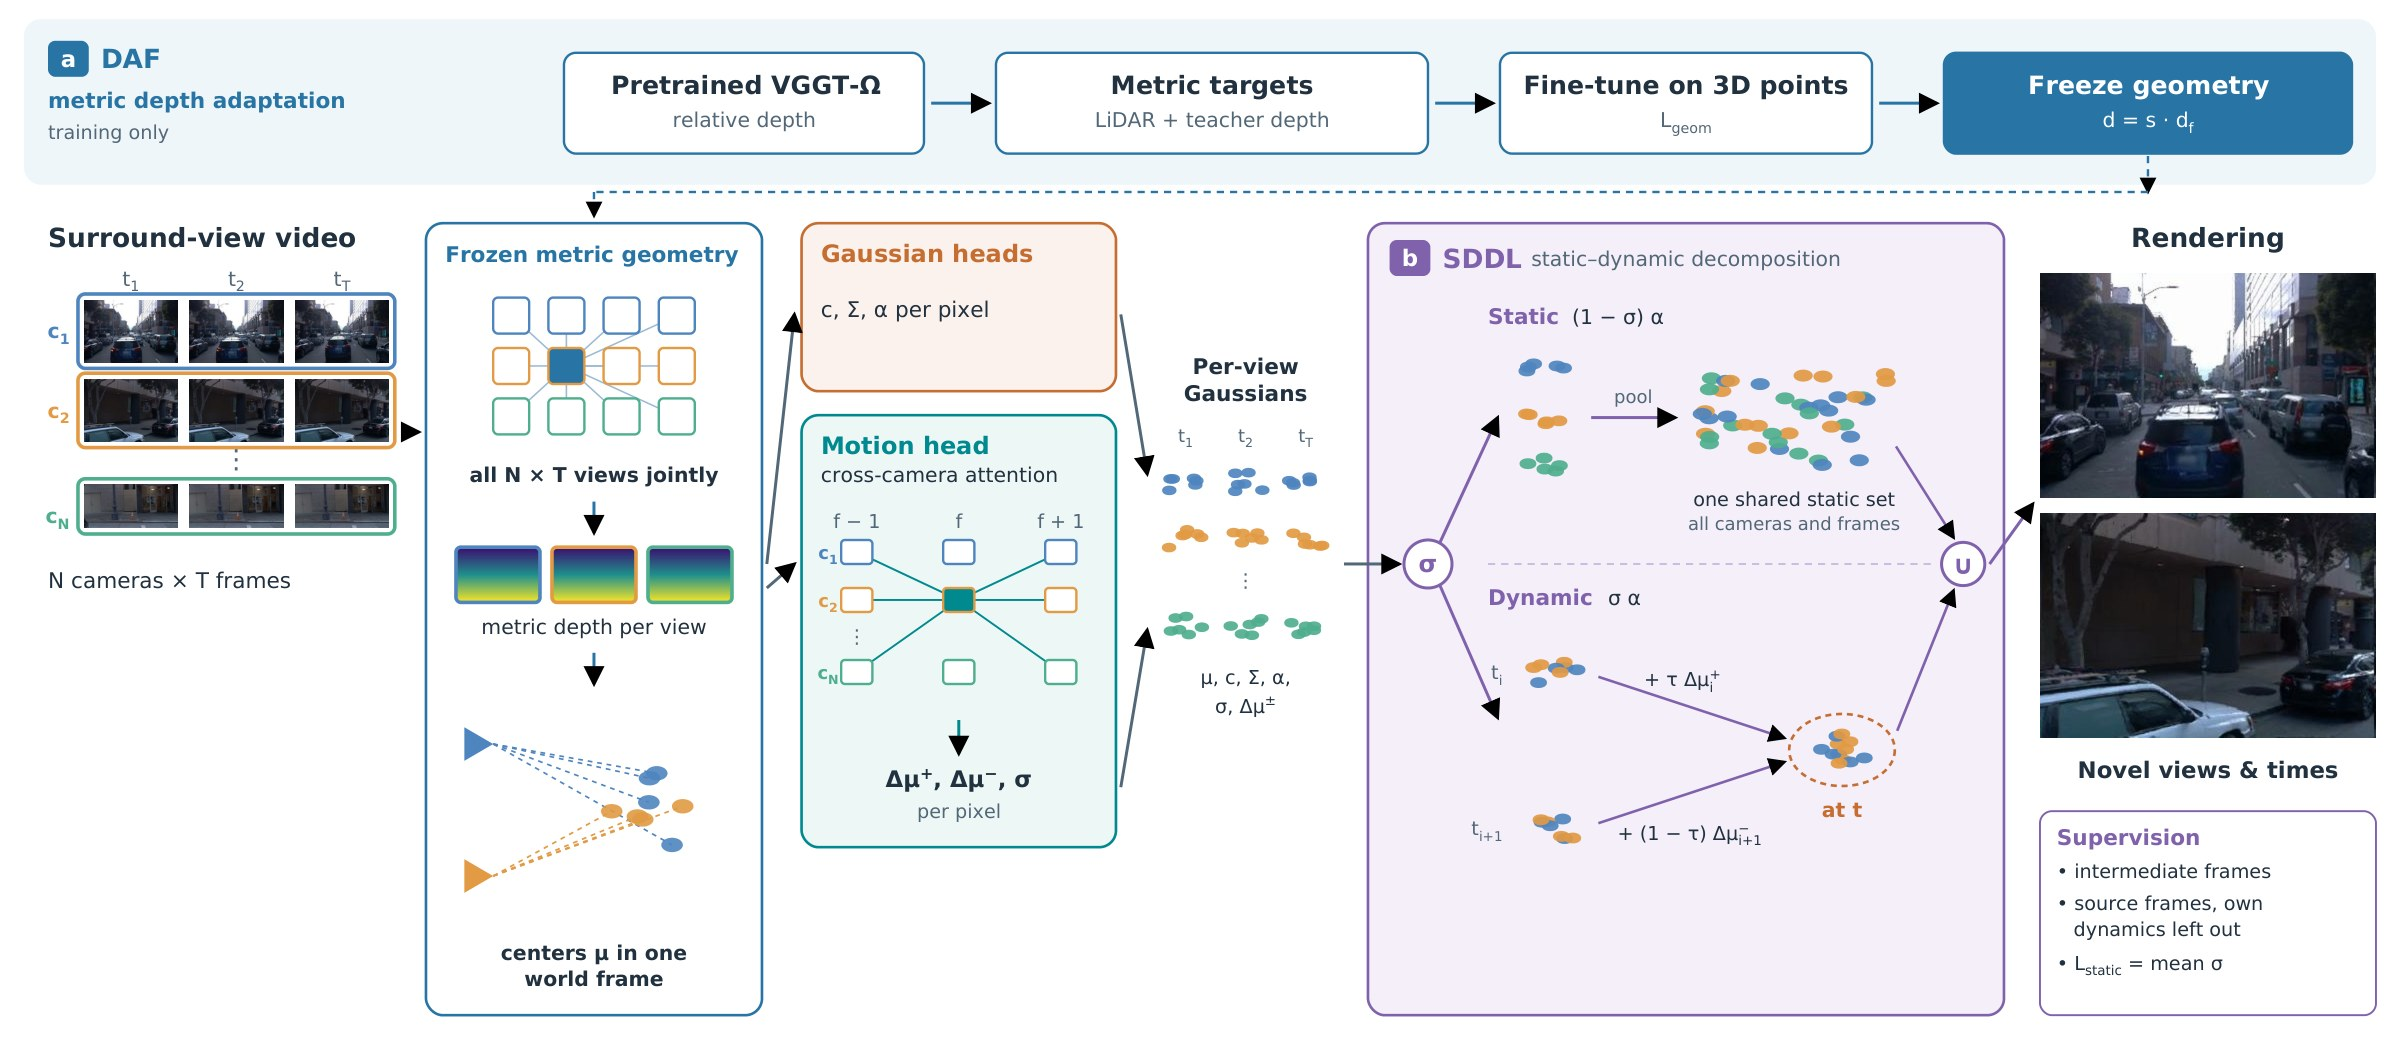
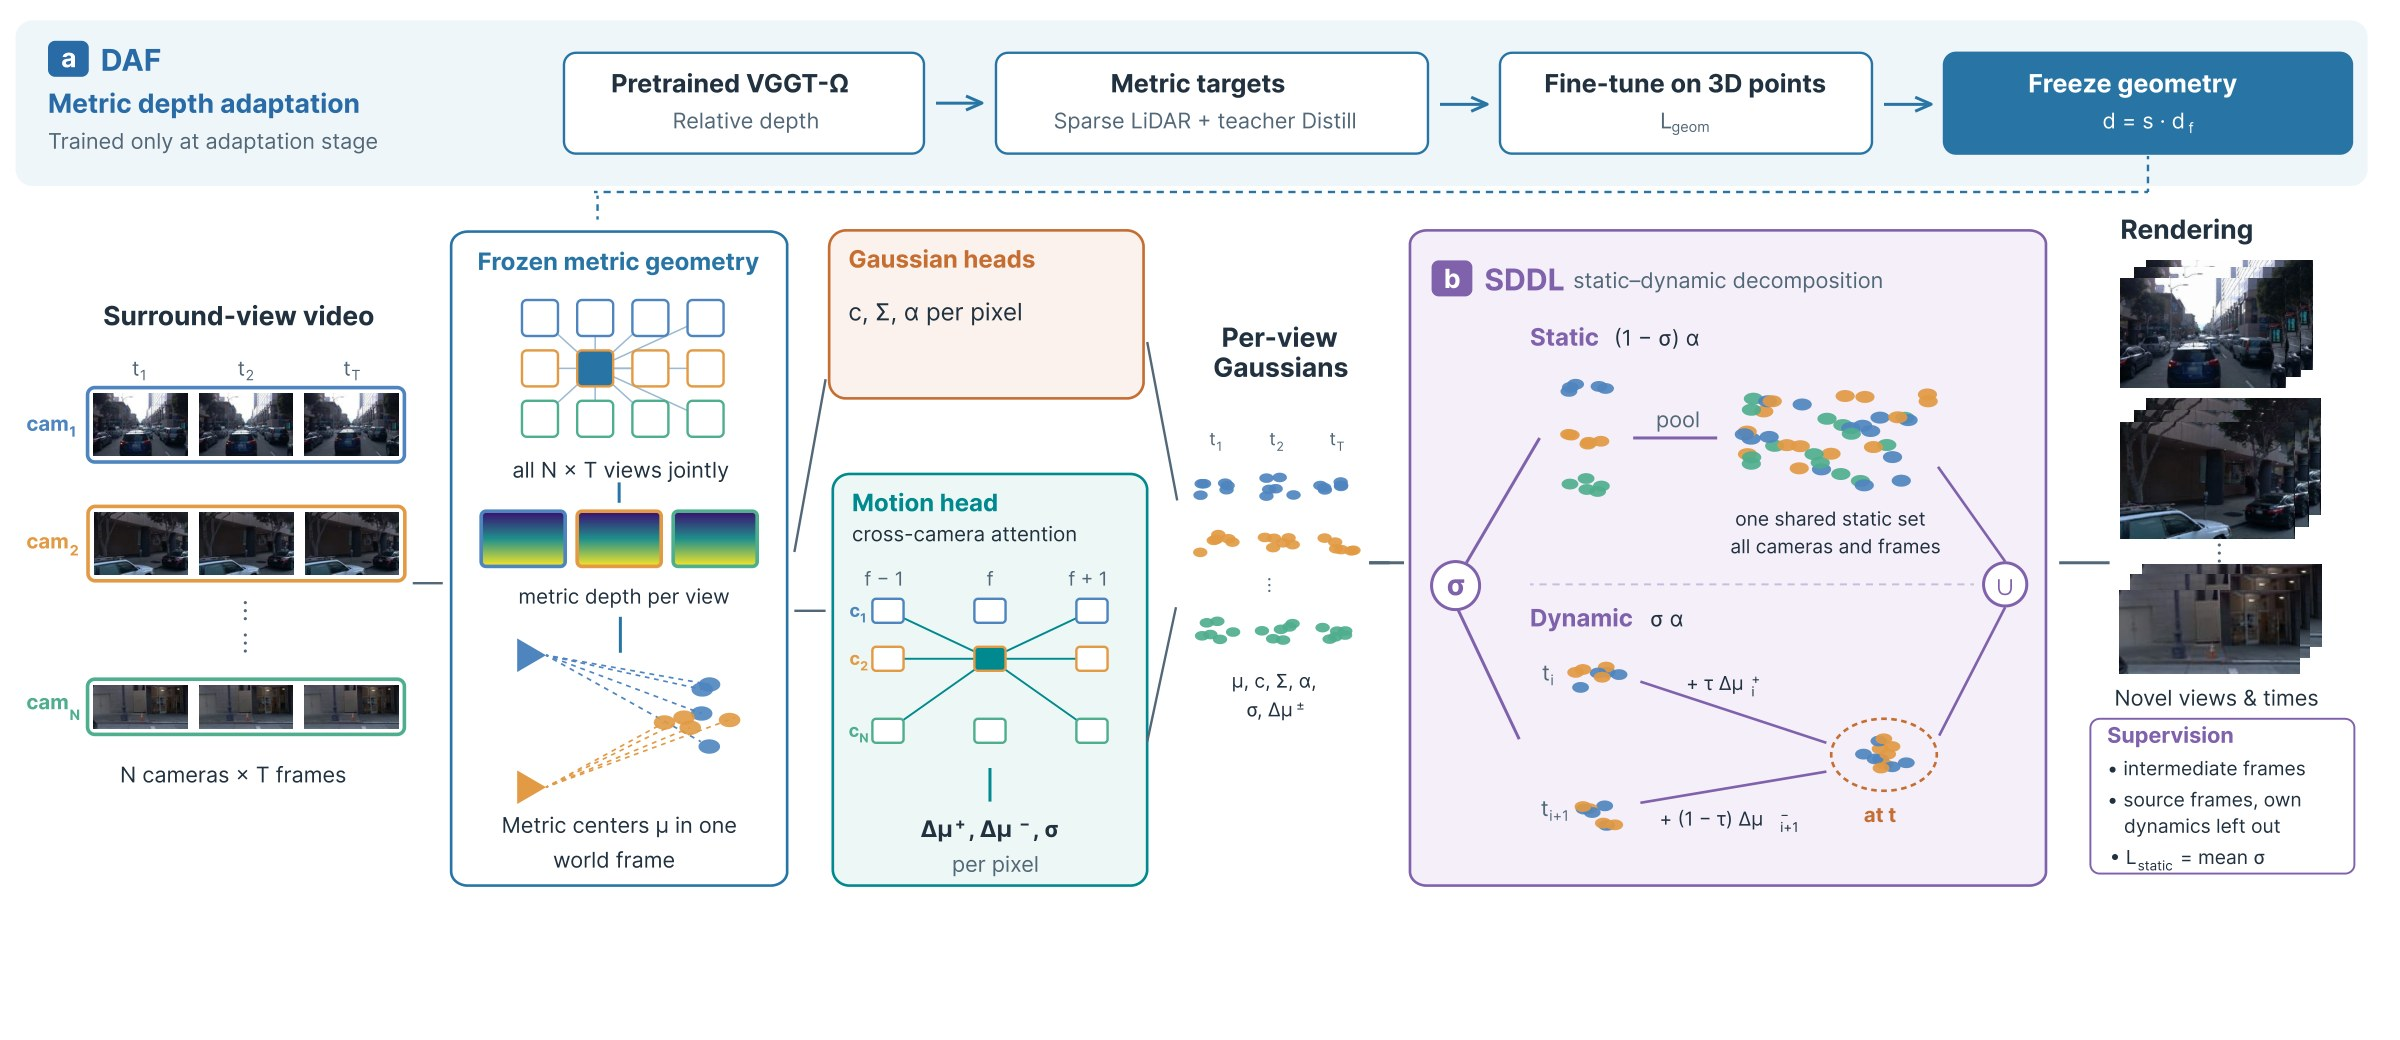
Sync with the paper: new framework figure, current abstract, affine-aligned header

diff --git a/docs/index.html b/docs/index.html
@@ -71,8 +71,8 @@
 
   <section class="wrap" id="abstract">
     <h2>Abstract</h2>
-    <p>Feed-forward scene reconstruction is a core component of autonomous driving, enabling scalable simulation, world modeling, and closed-loop reinforcement learning. We present X-Splatter, a surround-view, feed-forward 4D Gaussian Splatting (4DGS) framework that processes all surround cameras jointly on a VGGT-&Omega; backbone, with cross-camera attention throughout the network. It introduces two key components: Depth Anchoring Fine-tuning (DAF), which shifts geometry from relative to metric space, and Static&ndash;Dynamic Decomposition Learning (SDDL), which combines dynamic gating, static-promoting regularization, and intermediate-frame supervision to discourage decomposition shortcuts and support velocity learning, without bounding boxes, tracklets, or optical-flow supervision.</p>
-    <p>Trained and evaluated on all surrounding views, including the side views that share the least content with the front camera, X-Splatter achieves state-of-the-art full-scene and dynamic-region novel-view synthesis and the lowest metric-depth RMSE on the Waymo Open Dataset. It also achieves the lowest cross-view 3D error among all evaluated methods, indicating better geometric agreement across adjacent cameras. The same model generalizes zero-shot to nuScenes and Argoverse&nbsp;2, with state-of-the-art rendering and metric-depth accuracy on both.</p>
+    <p>Feed-forward scene reconstruction is a core component of autonomous driving, enabling scalable simulation, world modeling, and closed-loop reinforcement learning. We present X-Splatter, a surround-view, feed-forward 4D Gaussian Splatting (4DGS) framework that processes all surround cameras jointly on a VGGT-&Omega; backbone, with cross-camera attention throughout the network. It introduces two key components: Depth Anchoring Fine-tuning (DAF), which shifts geometry from relative to metric space, and Static&ndash;Dynamic Decomposition Learning (SDDL), which combines dynamic gating, static-promoting regularization, and intermediate-frame supervision to alleviate static&ndash;dynamic conflation and enhance motion learning. X-Splatter is a fully self-supervised system, without requiring labeled bounding boxes, tracklets, or optical-flow supervision.</p>
+    <p>Trained and evaluated on all surrounding views, including the side/rear views that share the least content with the front camera, X-Splatter achieves state-of-the-art full-scene and dynamic-only novel-view synthesis and the lowest metric-depth RMSE on the Waymo Open Dataset. It also achieves the lowest cross-view 3D error among the evaluated baselines, indicating better geometric agreement across adjacent cameras. The same model generalizes zero-shot to nuScenes and Argoverse&nbsp;2, with state-of-the-art rendering and metric-depth accuracy on both.</p>
   </section>
 
   <section class="wrap" id="method">
@@ -152,7 +152,7 @@
         <thead>
           <tr><th rowspan="3">Method</th><th colspan="3">Waymo &rarr; nuScenes</th><th colspan="3">Waymo &rarr; Argoverse&nbsp;2</th></tr>
           <tr><th rowspan="2">PSNR &uarr;</th><th colspan="2">Depth RMSE (m) &darr;</th><th rowspan="2">PSNR &uarr;</th><th colspan="2">Depth RMSE (m) &darr;</th></tr>
-          <tr><th>metric</th><th>affine</th><th>metric</th><th>affine</th></tr>
+          <tr><th>metric</th><th>affine-aligned</th><th>metric</th><th>affine-aligned</th></tr>
         </thead>
         <tbody>
           <tr class="group"><td colspan="7">All cameras</td></tr>
